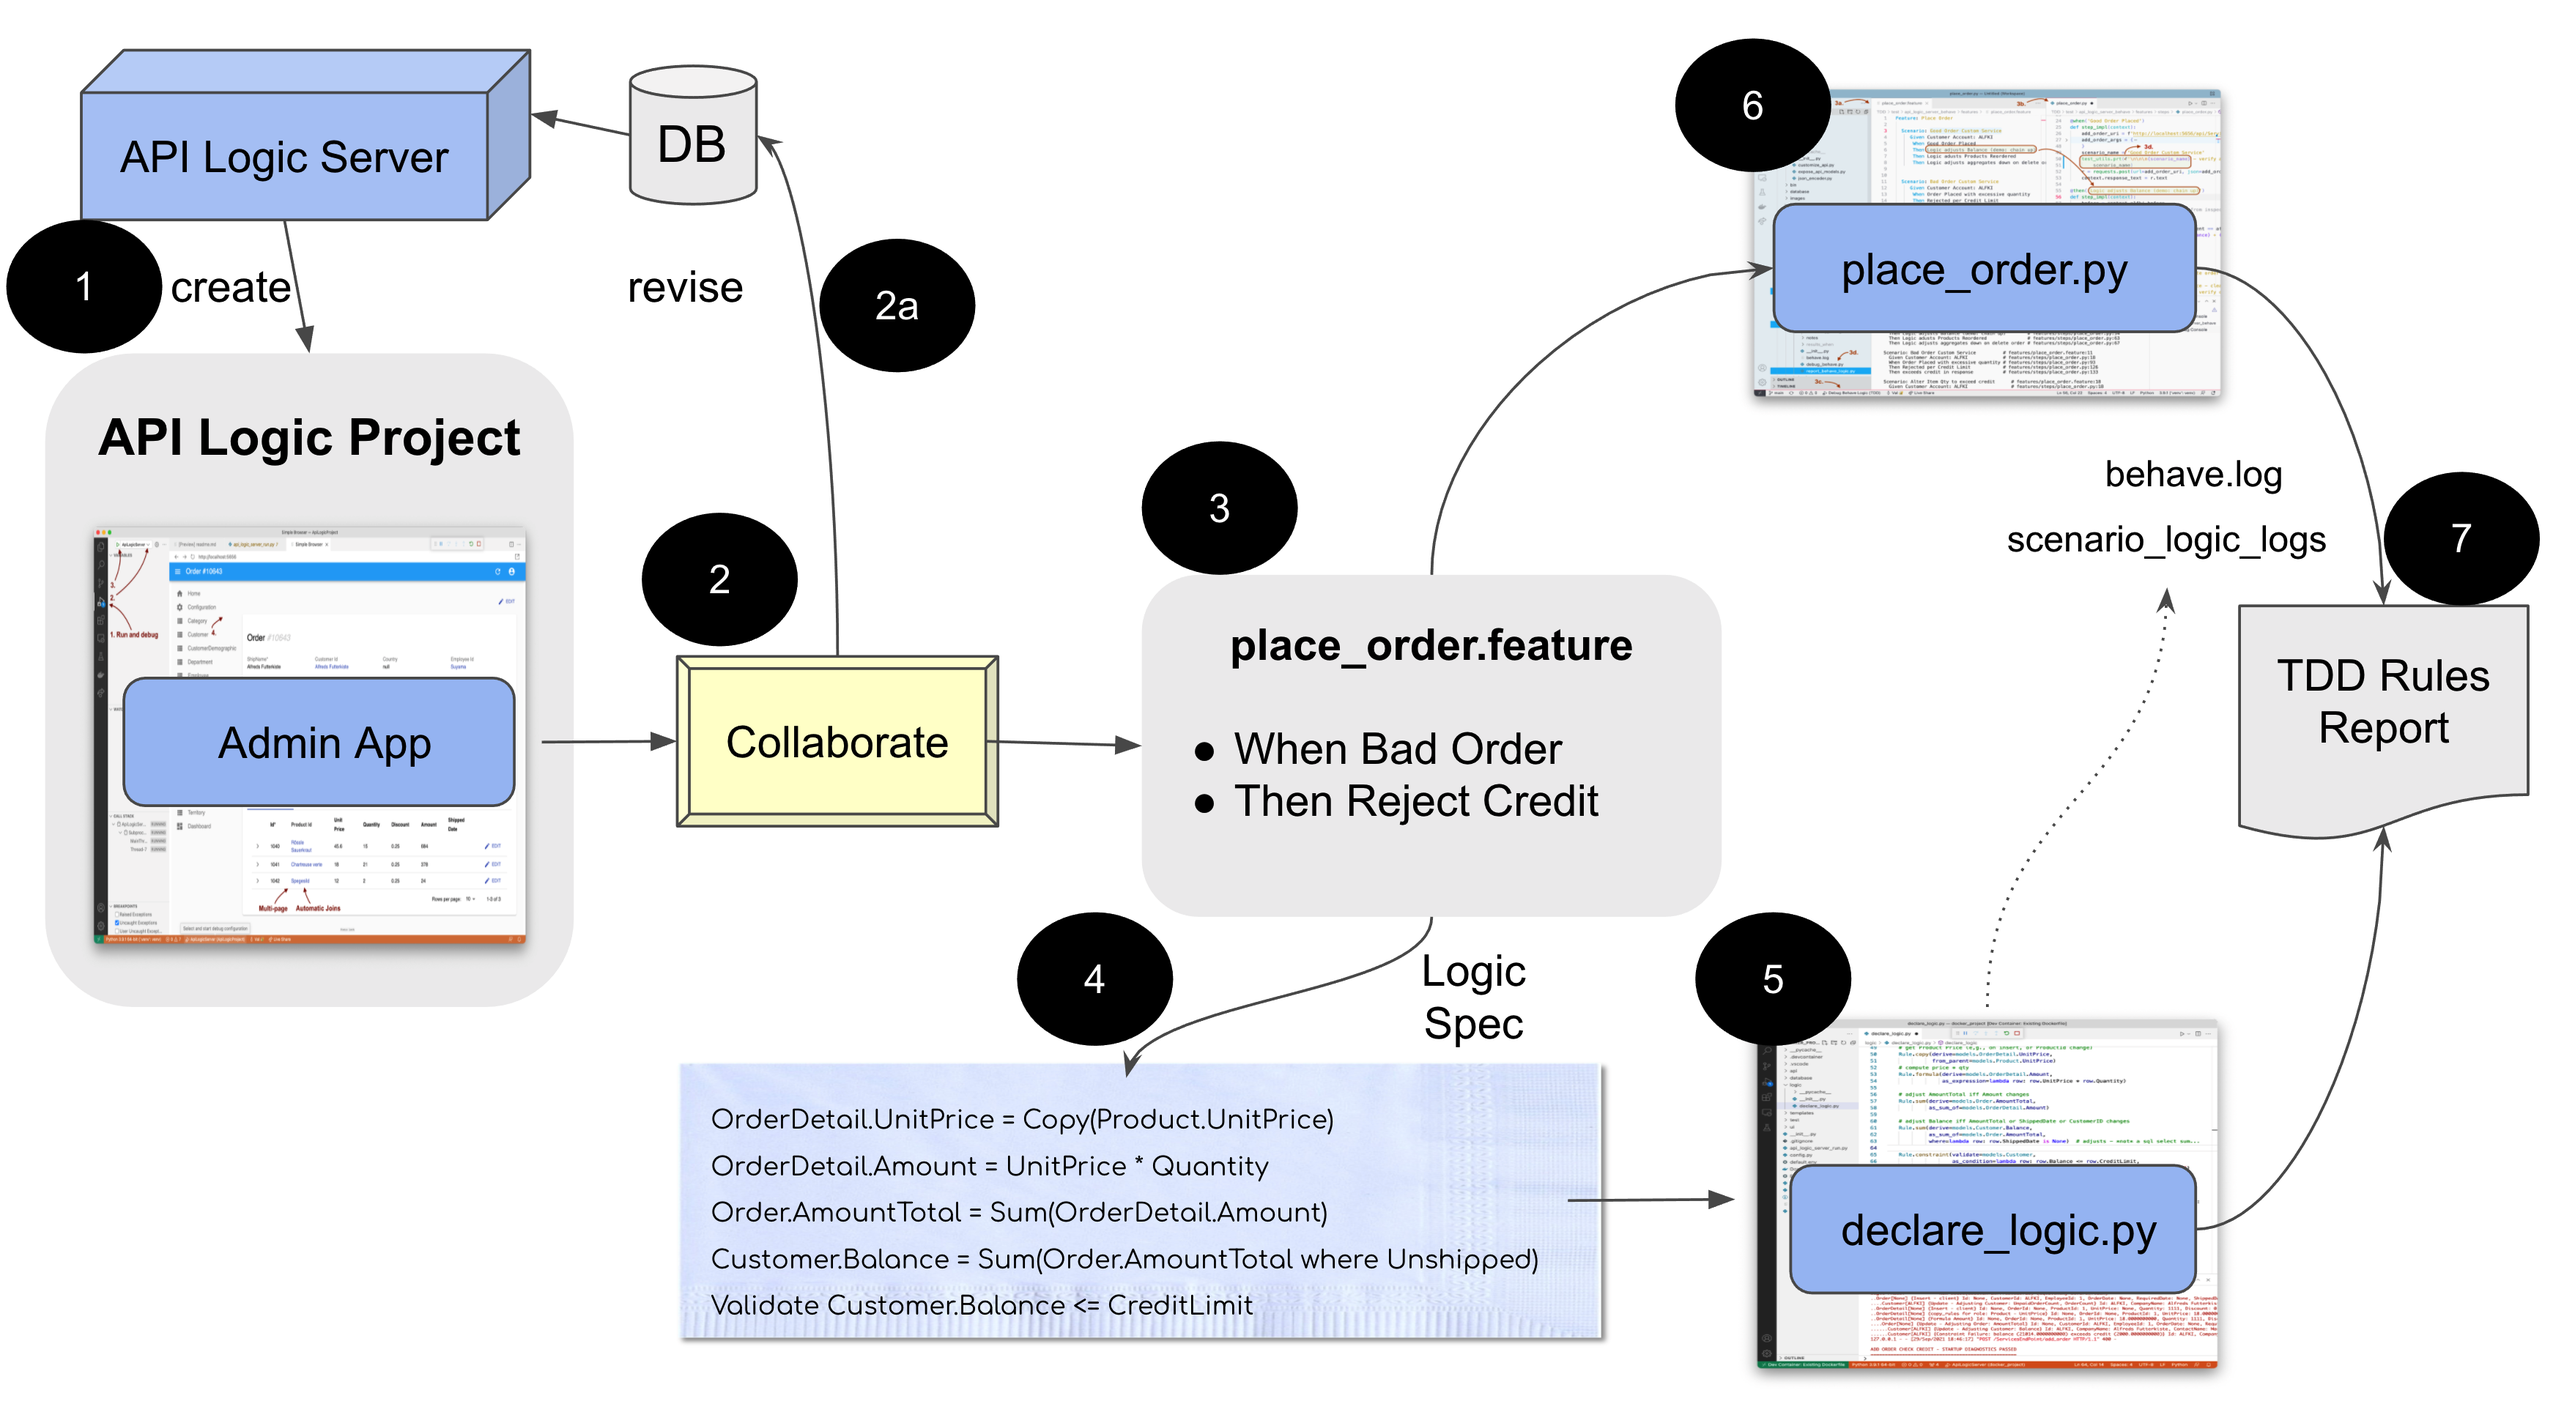
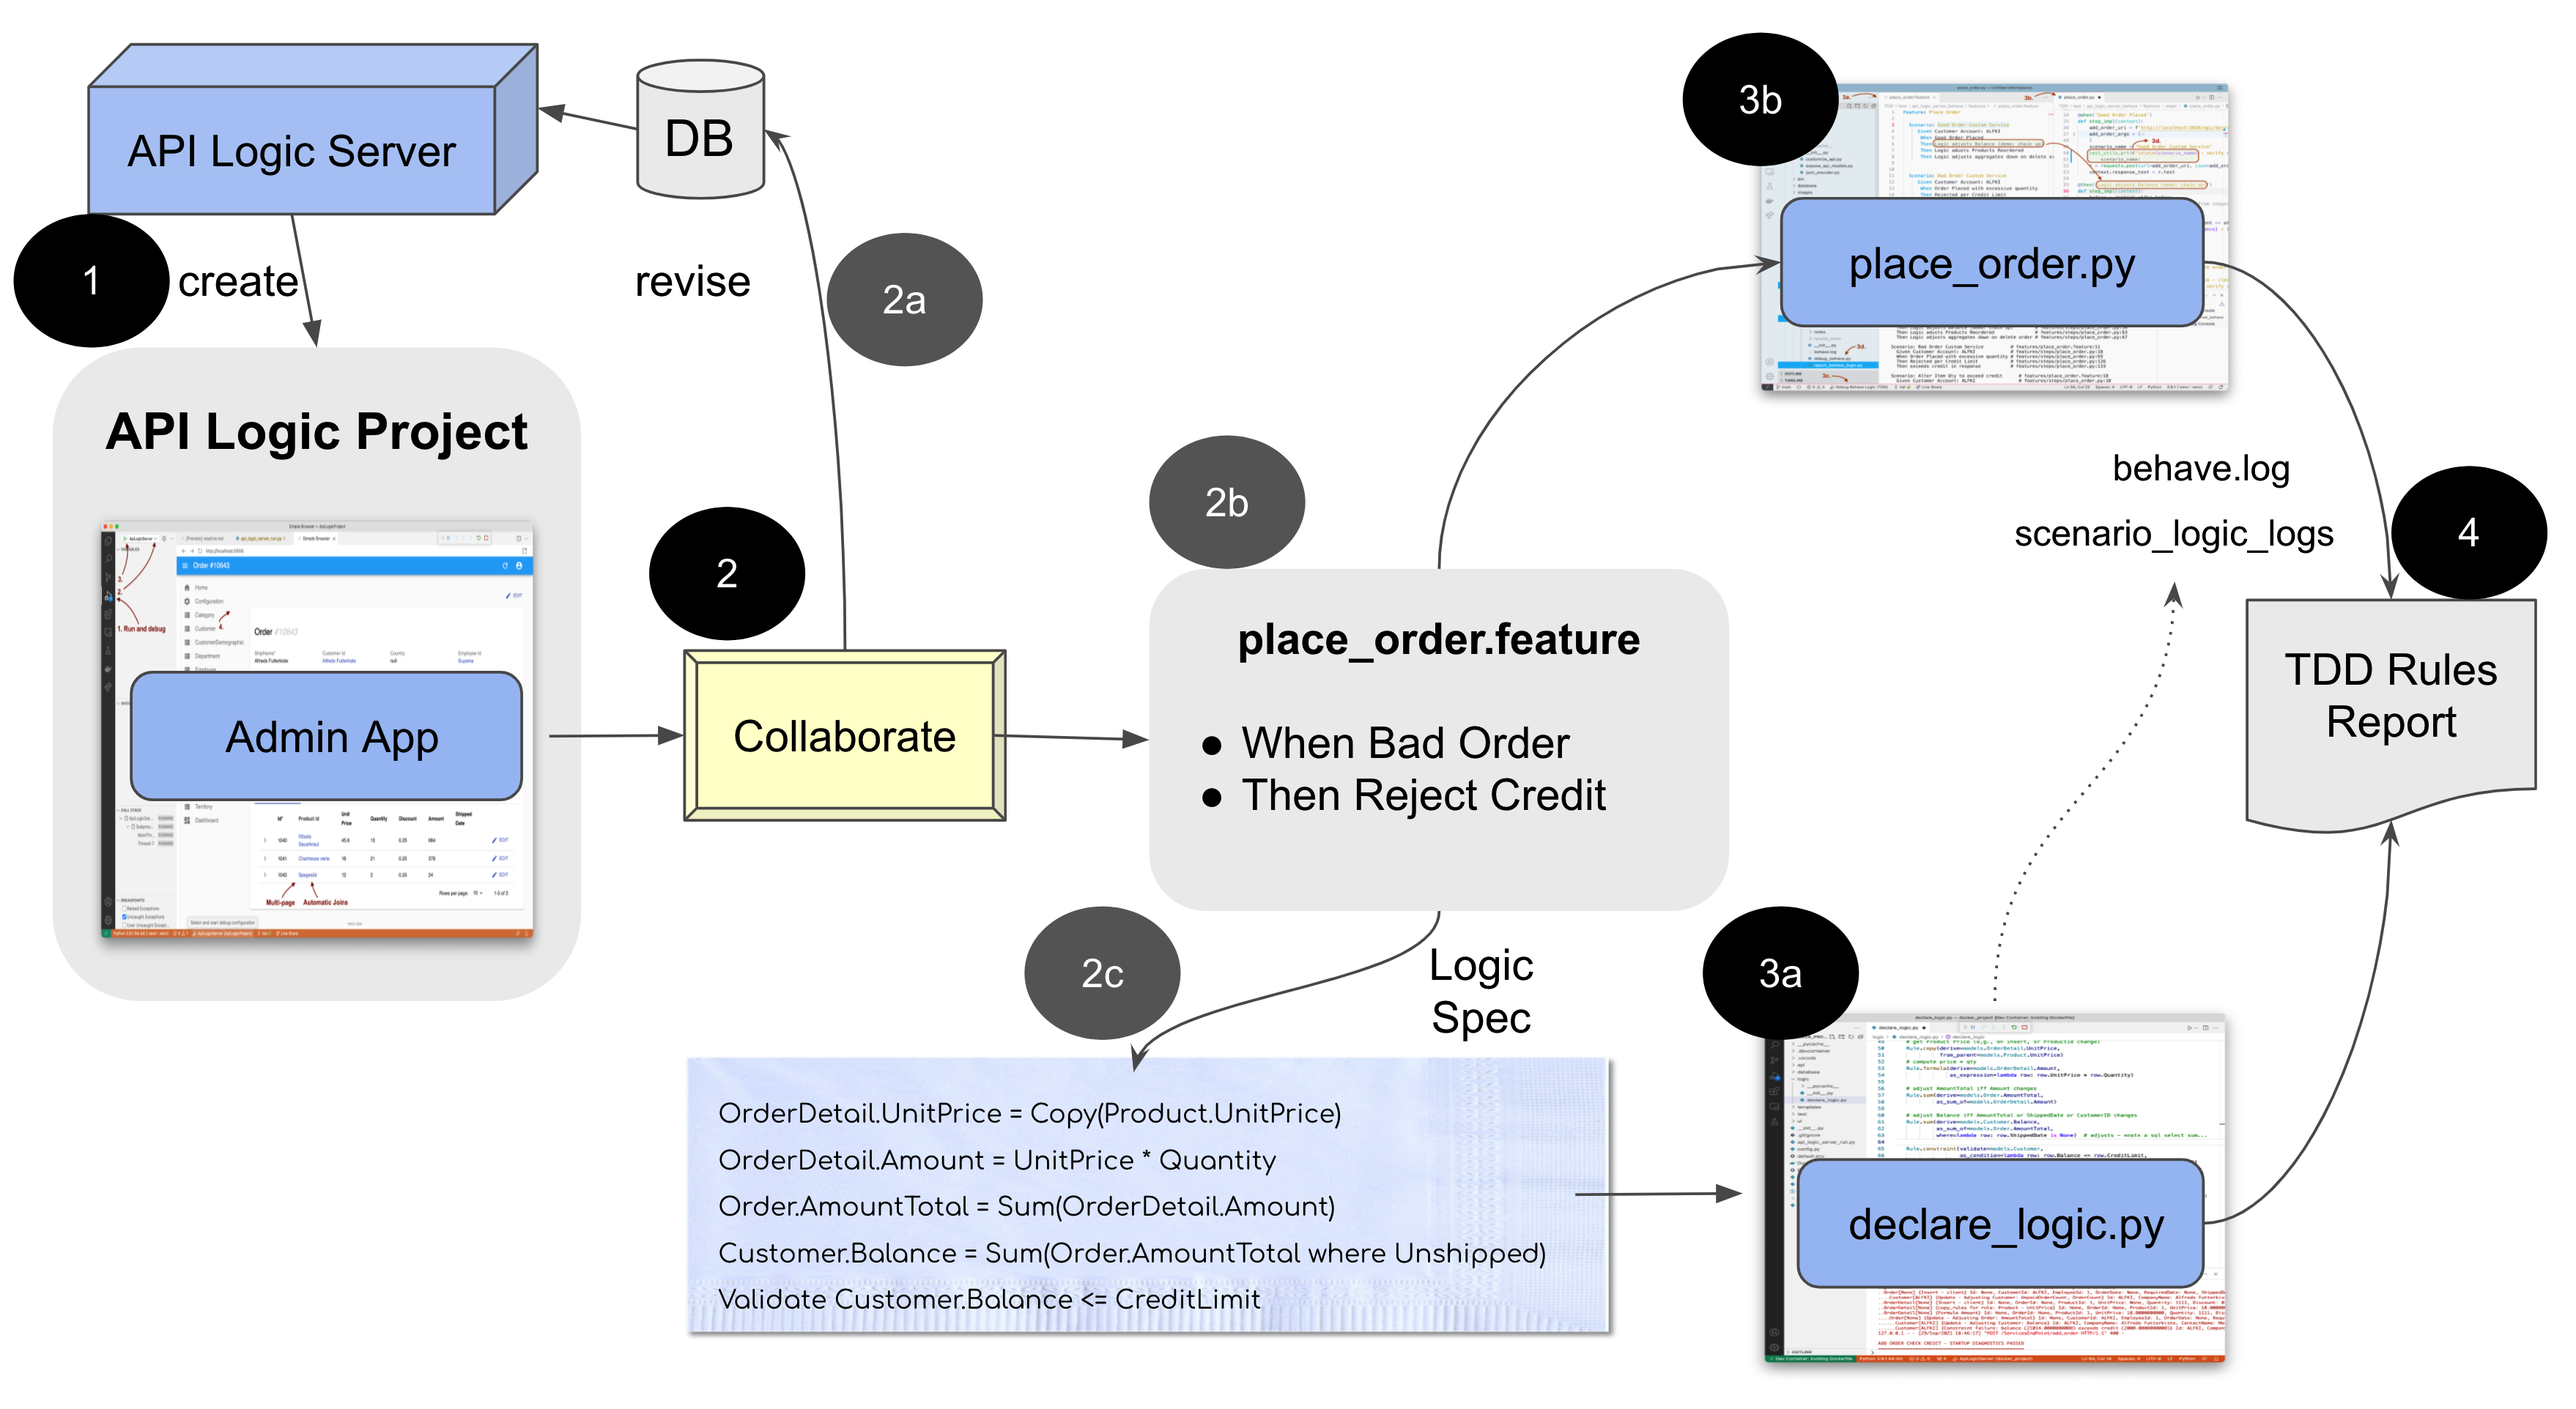
sync diagrams

diff --git a/readme.md b/readme.md
@@ -107,15 +107,9 @@ In a conventional system, this would mean revising the API and App.  However, si
 
 &nbsp;&nbsp;
 
-
-#### 2b. Uncover TDD Scenarios
+#### 2b. Define Scenarios in Behave
 
 User Interfaces also spark insight about the Features ("Place Order") and Scenarios ("Check Credit"): _"When the customer places an order, we need to reject it if it exceeds the credit limit"._  Capture these as described below.
-
-
-&nbsp;&nbsp;
-
-## 3. Define Scenarios in Behave
 
 TDD is designed for business user collaboration by making Features and Scenarios transparent.  So, the start of Behave is to define one or more `.feature` files.
 
@@ -127,13 +121,13 @@ For more on TDD, [see here](https://github.com/valhuber/TDD/wiki/Stories-And-Beh
 
 &nbsp;&nbsp;
 
-#### Add Custom Service
+##### Add Custom Service
 
 While the automatically-created API is a great start, you may uncover a need for a custom service.  This is easy to add - it's only about 10 lines of Python (`api/customize_api.py`), since the logic (discussed below) is enforced in the underlying data access.  For details, [see here](https://github.com/valhuber/ApiLogicServer/blob/main/README.md#api-customization).
 
 &nbsp;&nbsp;
 
-## 4. Logic Specification
+#### 2c. Logic Specification
 
 We now choose a scenario (e.g, `Bad Order`), and engage business users for a clear understanding of _check credit_.  This follows a familiar step-wise definition of terms, which we capture in text as shown below.
 
@@ -144,7 +138,7 @@ Note this "cocktail napkin spec" is short, yet clear.  That's because instead of
 
 &nbsp;&nbsp;
 
-## 5. Declare Logic (same as spec)
+## 3a. Declare Logic (same as spec)
 
 Business Logic is the heart of the system, enforcing our business policies.  These consist of multi-table constraints and derivations, and actions such as sending email and messages.  A core TDD objective is to define and test such behavior.
 
@@ -183,7 +177,7 @@ Unlike manual code, logic is ***declarative:***
 
 &nbsp;&nbsp;
 
-## 6. Code/Run TDD Scenarios
+## 3b. Code/Run TDD Scenarios
 
 Implement the actual scenarios (tests) in Python (`place_order.py`), using annotations (`@when`) to match scenarios and implementations.  In this project, the implementation is basically calling APIs to get old data, run transactions, and check results.
 
@@ -206,7 +200,7 @@ The rules fire as transactions are run, and produce files later used in Report B
 
 &nbsp;&nbsp;
 
-## 7. **Create TDD/Logic Report**
+## 4. **Create TDD/Logic Report**
 
 This is pretty interesting: a record of all our Features and Scenarios, including transparent underlying logic.  The problem is that it's buried in some text files inside our project.
 
